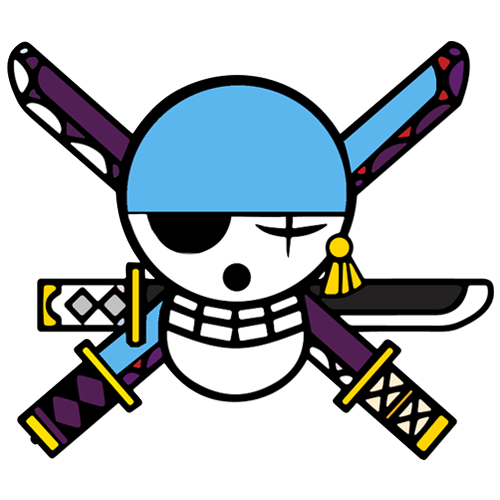
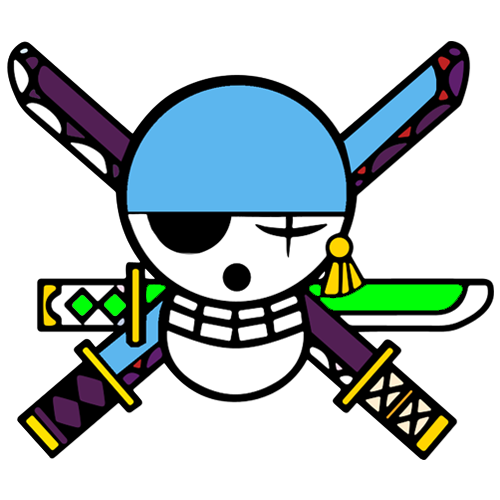
asd

diff --git a/src/App.jsx b/src/App.jsx
@@ -20,10 +20,9 @@ import {
   Slider,
 } from '@mui/material'
 import ExpandMoreIcon from '@mui/icons-material/ExpandMore';
-import { CANVAS_W, CANVAS_H, LOGO_OFFSET_Y, CUSTOM_BG_MAIN, CUSTOM_BG_SECOND, ANIME_OFFSET_Y_NORMAL, ANIME_OFFSET_Y_SMALL, ANIME_SCALE_NORMAL, ANIME_SCALE_SMALL, SHOW_OFFSET_Y_NORMAL, SHOW_OFFSET_Y_SMALL, SHOW_SCALE_NORMAL, SHOW_SCALE_SMALL } from './previewConfig';
+import { CANVAS_W, CANVAS_H, LOGO_OFFSET_Y, CUSTOM_BG_MAIN, CUSTOM_BG_SECOND, ANIME_OFFSET_Y_NORMAL, ANIME_OFFSET_Y_SMALL, ANIME_SCALE_NORMAL, ANIME_SCALE_SMALL, SHOW_OFFSET_Y_NORMAL, SHOW_OFFSET_Y_SMALL, SHOW_SCALE_NORMAL, SHOW_SCALE_SMALL, ONEPIECE_STYLE_CONFIGS } from './previewConfig';
 import { drawDragonBall } from './DragonBallPreview.jsx';
 import { drawOnePiece } from './OnePiecePreview.jsx';
-import { drawOnePieceNew } from './OnePiecePreviewNew.jsx';
 import { drawBand } from './BandPreview.jsx';
 import { drawHunterXHunter } from './HunterXHunterPreview.jsx';
 
@@ -47,7 +46,6 @@ const THEMES = [
     options: [
       { label: 'Naruto', value: 'naruto', fontFamily: 'AnimeFont', color: '#ff9900' },
       { label: 'One Piece', value: 'onepiece', fontFamily: 'AnimeFont', color: '#0099ff' },
-      { label: 'One Piece (New)', value: 'onepiece-new', fontFamily: 'AnimeFont', color: '#0099ff' },
       { label: 'Dragon Ball', value: 'dragonball', fontFamily: 'db', color: '#fbc2eb' },
       { label: 'Hunter x Hunter', value: 'hxh', fontFamily: 'PLZ', color: '#c60000' },
     ],
@@ -99,38 +97,12 @@ const ONEPIECE_VARIANTS = [
 
 const VARIANTS = {
   onepiece: ONEPIECE_VARIANTS,
-  'onepiece-new': ONEPIECE_VARIANTS,
-}
-
-// Style configuration for One Piece character variants
-const ONEPIECE_STYLE_CONFIGS = {
-  char1: { boxFilename: 'box_luffy.png', defaultStyleImage: 'style_1.png', defaultPrimaryColor: '#dc2526', defaultSecondaryColor: '#0077f1', styleScale: 1.1 },
-  char2: { boxFilename: 'box_green.png', defaultStyleImage: 'style_2.png', defaultPrimaryColor: '#f4ed00', defaultSecondaryColor: '#2ab100', styleScale: 1.1  },
-  char3: { boxFilename: 'box_orange.png', defaultStyleImage: 'style_3.svg', defaultPrimaryColor: '#c80000', defaultSecondaryColor: '#e06f00', styleScale: 1.1 },
-  char4: { boxFilename: 'box_pink.png', defaultStyleImage: 'style_4.png', defaultPrimaryColor: '#ffffff', defaultSecondaryColor: '#f003ff', styleScale: 1.2 },
-  char5: { boxFilename: 'box_yellow.png', defaultStyleImage: 'style_5.png', defaultPrimaryColor: '#ffffff', defaultSecondaryColor: '#f9da06' },
-  char6: { boxFilename: 'box_red.png', defaultStyleImage: 'style_6.png', defaultPrimaryColor: '#ffffff', defaultSecondaryColor: '#f30011', styleScale: 1.3 },
-  char7: { boxFilename: 'box_nami.png', defaultStyleImage: 'style_7.png', defaultPrimaryColor: '#f47301', defaultSecondaryColor: '#00c892', styleScale: 1.2 },
-  char8: { boxFilename: 'box.png', defaultStyleImage: 'style_8.png', defaultPrimaryColor: '#f9da06', defaultSecondaryColor: '#0077f1', styleScale: 1.15 },
-  char9: { boxFilename: 'box_purple.png', defaultStyleImage: 'style_9.png', defaultPrimaryColor: '#FF0000', defaultSecondaryColor: '#6803ff', styleScale: 1.1 },
-  char10: { boxFilename: 'box_yellow.png', defaultStyleImage: 'style_10.png', defaultPrimaryColor: '#a2a2a2', defaultSecondaryColor: '#e8da00', styleScale: 1.2 },
-  char11: { boxFilename: 'box_grey.png', defaultStyleImage: 'style_11.png', defaultPrimaryColor: '#e8da00', defaultSecondaryColor: '#a2a2a2', styleScale: 1.2 },
-  char12: { boxFilename: 'box_tropa.png', defaultStyleImage: 'style_12.png', defaultPrimaryColor: '#ffffff', defaultSecondaryColor: '#48620c', styleScale: 1.2 },
-  char13: { boxFilename: 'box_boa.png', defaultStyleImage: 'style_13.png', defaultPrimaryColor: '#ff0000', defaultSecondaryColor: '#000000', styleScale: 1.2  },
-  char14: { boxFilename: 'box_junbe.png', defaultStyleImage: 'style_14_k.png', defaultPrimaryColor: '#ff0000', defaultSecondaryColor: '#50aefe', styleScale: 1.1  },
-  char15: { boxFilename: 'box_purple.png', defaultStyleImage: 'style_15.png', defaultPrimaryColor: '#ffffff', defaultSecondaryColor: '#6803ff', styleScale: 1.2, styleWidthScale: 1.5  },
-  char16: { boxFilename: 'box_purple.png', defaultStyleImage: 'style_16.png', defaultPrimaryColor: '#ffffff', defaultSecondaryColor: '#6803ff', styleScale: 1.1  },
-  char17: { boxFilename: 'box_barbagrande.png', defaultStyleImage: 'style_17.png', defaultPrimaryColor: '#ffffff', defaultSecondaryColor: '#850101', styleScale: 1.2 , styleWidthScale: 1.5 },
-  char18: { boxFilename: 'box_red.png', defaultStyleImage: 'style_18.png', defaultPrimaryColor: '#ffffff', defaultSecondaryColor: '#ff0000', styleScale: 1.1  },
-  char19: { boxFilename: 'box_red.png', defaultStyleImage: 'style_19.png', defaultPrimaryColor: '#ffffff', defaultSecondaryColor: '#ff0000', styleScale: 0.95, keepAspectRatio: true },
-  char20: { boxFilename: 'box_red.png', defaultStyleImage: 'style_20.png', defaultPrimaryColor: '#ffff00', defaultSecondaryColor: '#ff0000', styleScale: 0.9, keepAspectRatio: true },
 }
 
 // Mapping of themespecific styles to product page URLs
 const PRODUCT_PAGE_URLS = {
   naruto: 'https://example.com/naruto-logo',
   onepiece: 'https://www.weletyoucook.com/product-page/anime-custom-desksign',
-  'onepiece-new': 'https://www.weletyoucook.com/product-page/anime-custom-desksign',
   dragonball: 'https://example.com/dragon-ball-logo',
   hxh: 'https://example.com/hunter-x-hunter-logo',
   metallica: 'https://example.com/metallica-logo',
@@ -158,12 +130,34 @@ export default function App() {
   const [previewScale, setPreviewScale] = useState(1.8);
   const scaledCanvasWidth = Math.round(CANVAS_W * previewScale);
   const scaledCanvasHeight = Math.round(CANVAS_H * previewScale);
+  const [styleVariant, setStyleVariant] = useState('');
 
   const currentTheme = THEMES.find((t) => t.value === theme)
   const currentSpecific = currentTheme.options.find((o) => o.value === specific)
   const displayFontFamily = currentSpecific?.fontFamily || 'AnimeFont'
   const displayColor = currentSpecific?.color || '#ffffff'
+  const isOnePieceSpecific = specific === 'onepiece'
+  const styleVariantOptions = isOnePieceSpecific && variant
+    ? (ONEPIECE_STYLE_CONFIGS[variant]?.styleVariants || [])
+    : []
+  const hasStyleVariant = styleVariantOptions.length > 0
   const hasVariant = Boolean(VARIANTS[specific])
+  const columnSpan = (hasVariant || hasStyleVariant) ? 4 : 6
+
+  useEffect(() => {
+    if (!isOnePieceSpecific) {
+      setStyleVariant('')
+      return
+    }
+    const variantConfig = variant ? ONEPIECE_STYLE_CONFIGS[variant] : undefined
+    const options = variantConfig?.styleVariants || []
+    if (options.length === 0) {
+      setStyleVariant('')
+      return
+    }
+    const defaultOption = options.find(opt => opt.value === variantConfig?.defaultStyleVariant) || options[0]
+    setStyleVariant((prev) => (prev && options.some(opt => opt.value === prev) ? prev : defaultOption.value))
+  }, [isOnePieceSpecific, variant])
 
   useEffect(() => {
     const canvas = canvasRef.current;
@@ -224,11 +218,7 @@ export default function App() {
           return;
         }
         if (theme === 'anime' && specific === 'onepiece') {
-          await drawOnePiece(ctx, text, variant, useCustomBackground);
-          return;
-        }
-        if (theme === 'anime' && specific === 'onepiece-new') {
-          await drawOnePieceNew(ctx, text, variant, useCustomBackground);
+          await drawOnePiece(ctx, text, variant, useCustomBackground, styleVariant);
           return;
         }
         if (theme === 'anime' && specific === 'hxh') {
@@ -291,7 +281,7 @@ export default function App() {
         ctx.translate(offsetX, offsetY);
         ctx.scale(scale, scale);
 
-        if (!(theme === 'anime' && (specific === 'onepiece' || specific === 'onepiece-new'))) {
+        if (!(theme === 'anime' && specific === 'onepiece')) {
           ctx.save();
           ctx.font = `bold 70px ${displayFontFamily}, sans-serif`;
           ctx.textAlign = 'center';
@@ -339,7 +329,7 @@ export default function App() {
       window.removeEventListener('resize', handleResize);
       ctx.setTransform = defaultSetTransform;
     };
-  }, [text, theme, specific, displayFontFamily, displayColor, variant, useCustomBackground, previewScale]);
+  }, [text, theme, specific, displayFontFamily, displayColor, variant, useCustomBackground, previewScale, styleVariant]);
   // Removed dispString as 3D preview is disabled
   return (
     <Container
@@ -394,7 +384,7 @@ export default function App() {
           </Typography>
 
           <Grid container spacing={2} alignItems="flex-end">
-            <Grid item xs={12} md={hasVariant ? 4 : 6}>
+            <Grid item xs={12} md={columnSpan}>
               <FormControl fullWidth variant="outlined">
                 <InputLabel id="theme-label">Theme</InputLabel>
                 <Select
@@ -421,7 +411,7 @@ export default function App() {
               </FormControl>
             </Grid>
 
-            <Grid item xs={12} md={hasVariant ? 4 : 6}>
+            <Grid item xs={12} md={columnSpan}>
               <FormControl fullWidth variant="outlined">
                 <InputLabel id="specific-label">{currentTheme?.label}</InputLabel>
                 <Select
@@ -457,6 +447,27 @@ export default function App() {
                     onChange={(e) => setVariant(e.target.value)}
                   >
                     {VARIANTS[specific].map((opt) => (
+                      <MenuItem key={opt.value} value={opt.value}>
+                        {opt.label}
+                      </MenuItem>
+                    ))}
+                  </Select>
+                </FormControl>
+              </Grid>
+            )}
+
+            {hasStyleVariant && (
+              <Grid item xs={12} md={4}>
+                <FormControl fullWidth variant="outlined">
+                  <InputLabel id="style-variant-label">Style</InputLabel>
+                  <Select
+                    labelId="style-variant-label"
+                    id="style-variant-select"
+                    value={styleVariant}
+                    label="Style"
+                    onChange={(e) => setStyleVariant(e.target.value)}
+                  >
+                    {styleVariantOptions.map((opt) => (
                       <MenuItem key={opt.value} value={opt.value}>
                         {opt.label}
                       </MenuItem>

diff --git a/src/OnePiecePreview.jsx b/src/OnePiecePreview.jsx
@@ -1,6 +1,6 @@
 import { CANVAS_W, CANVAS_H, LOGO_OFFSET_Y, CUSTOM_BG_MAIN, CUSTOM_BG_SECOND, ONEPIECE_STYLE_CONFIGS, ONEPIECE_SCALE_NORMAL, ONEPIECE_SCALE_SMALL, ONEPIECE_OFFSET_Y_NORMAL, ONEPIECE_OFFSET_Y_SMALL } from './previewConfig';
 
-export async function drawOnePiece(ctx, text, variant, useCustomBackground) {
+export async function drawOnePiece(ctx, text, variant, useCustomBackground, styleVariantKey) {
   const currentTransform = typeof ctx.getTransform === 'function' ? ctx.getTransform() : { a: 1, d: 1 };
   const scaleX = ctx.__deviceScaleX || currentTransform.a || 1;
   const scaleY = ctx.__deviceScaleY || currentTransform.d || 1;
@@ -23,10 +23,12 @@ export async function drawOnePiece(ctx, text, variant, useCustomBackground) {
   const renderWidth = Math.max(1, Math.round(CANVAS_W * renderScaleX));
   const renderHeight = Math.max(1, Math.round(CANVAS_H * renderScaleY));
   const smoothingSupported = 'imageSmoothingQuality' in ctx;
+  const forceBlackBackground = variant === 'char13';
+  const shouldUseCustomBackground = useCustomBackground && !forceBlackBackground;
 
   ctx.clearRect(0, 0, CANVAS_W, CANVAS_H);
 
-  if (useCustomBackground) {
+  if (shouldUseCustomBackground) {
     const bg = new Image();
     const txtLen = text.replace(/\s/g, '').length;
     bg.src = txtLen > 6 ? CUSTOM_BG_SECOND : CUSTOM_BG_MAIN;
@@ -37,13 +39,26 @@ export async function drawOnePiece(ctx, text, variant, useCustomBackground) {
     if (smoothingSupported) ctx.imageSmoothingQuality = 'high';
     ctx.drawImage(bg, 0, 0, deviceWidth, deviceHeight);
     ctx.restore();
+  } else if (forceBlackBackground) {
+    ctx.save();
+    setIdentityTransform();
+    ctx.fillStyle = '#000000';
+    ctx.fillRect(0, 0, deviceWidth, deviceHeight);
+    ctx.restore();
   }
 
   const txt = text.toUpperCase().substring(0, 12);
   await document.fonts.load('bold 50px ONEPIECE_IL_FINAL');
   const cfg = ONEPIECE_STYLE_CONFIGS[variant] || ONEPIECE_STYLE_CONFIGS.char1;
-  const primaryColor = cfg.defaultSecondaryColor;
-  const secondaryColor = cfg.defaultPrimaryColor;
+  const styleVariantOptions = cfg.styleVariants || [];
+  const fallbackVariant = styleVariantOptions.find((opt) => opt.value === cfg.defaultStyleVariant) || styleVariantOptions[0];
+  const activeStyleVariant = styleVariantOptions.find((opt) => opt.value === styleVariantKey) || fallbackVariant || null;
+  const activeStyleImage = activeStyleVariant?.styleImage || cfg.defaultStyleImage;
+  const primaryColor = activeStyleVariant?.secondaryColor || cfg.defaultSecondaryColor;
+  const secondaryColor = activeStyleVariant?.primaryColor || cfg.defaultPrimaryColor;
+  const effectiveStyleScale = activeStyleVariant?.styleScale ?? cfg.styleScale ?? 1;
+  const effectiveStyleWidthScale = activeStyleVariant?.styleWidthScale ?? cfg.styleWidthScale;
+  const effectiveKeepAspectRatio = activeStyleVariant?.keepAspectRatio ?? cfg.keepAspectRatio;
   const maxFontSize = Math.min(400, CANVAS_H * 0.5);
   const baseFontSize = txt.length > 11 ? maxFontSize * 0.7 : maxFontSize;
   const fontSize = baseFontSize;
@@ -57,11 +72,11 @@ export async function drawOnePiece(ctx, text, variant, useCustomBackground) {
   if ('imageSmoothingQuality' in offCtx) offCtx.imageSmoothingQuality = 'high';
   offCtx.scale(renderScaleX, renderScaleY);
 
-  if (!useCustomBackground) {
-    offCtx.fillStyle = '#fff';
-    offCtx.fillRect(0, 0, CANVAS_W, CANVAS_H);
-  } else {
+  if (shouldUseCustomBackground) {
     offCtx.clearRect(0, 0, CANVAS_W, CANVAS_H);
+  } else {
+    offCtx.fillStyle = forceBlackBackground ? '#000000' : '#fff';
+    offCtx.fillRect(0, 0, CANVAS_W, CANVAS_H);
   }
 
   const boxImg = new Image();
@@ -70,19 +85,18 @@ export async function drawOnePiece(ctx, text, variant, useCustomBackground) {
   const bxH = (425 / 800) * CANVAS_H;
   const bxY = CANVAS_H - bxH - (160 / 800) * CANVAS_H;
   const mainH = CANVAS_H * 0.5;
-  const styleScale = cfg.styleScale ?? 1;
-  let imgHeight = mainH * styleScale;
+  let imgHeight = mainH * effectiveStyleScale;
   let imgWidth;
   const styleImg = new Image();
-  styleImg.src = new URL(`./assets/${cfg.defaultStyleImage}`, import.meta.url).href;
+  styleImg.src = new URL(`./assets/${activeStyleImage}`, import.meta.url).href;
   await new Promise(r => (styleImg.onload = r));
-  if (cfg.keepAspectRatio) {
+  if (effectiveKeepAspectRatio) {
     const naturalWidth = styleImg.naturalWidth || styleImg.width || 1;
     const naturalHeight = styleImg.naturalHeight || styleImg.height || 1;
     const aspectRatio = naturalHeight > 0 ? naturalWidth / naturalHeight : 1;
     imgWidth = imgHeight * aspectRatio;
   } else {
-    const widthScale = cfg.styleWidthScale ?? styleScale;
+    const widthScale = effectiveStyleWidthScale ?? effectiveStyleScale;
     imgWidth = mainH * widthScale;
   }
 

diff --git a/src/OnePiecePreviewNew.jsx b/src/OnePiecePreviewNew.jsx
@@ -16,7 +16,7 @@ const FONT_BOOST = 1.08;
 const STYLE_HEIGHT_RATIO = 0.58;
 const SHADOW_INTENSITY = 1.15;
 
-export async function drawOnePieceNew(ctx, text, variant, useCustomBackground) {
+export async function drawOnePieceNew(ctx, text, variant, useCustomBackground, styleVariantKey) {
   const baseWidth = CANVAS_W;
   const baseHeight = CANVAS_H;
 
@@ -44,8 +44,15 @@ export async function drawOnePieceNew(ctx, text, variant, useCustomBackground) {
   const txt = text.toUpperCase().substring(0, 12);
   await document.fonts.load(`bold ${Math.round(50 * FONT_BOOST)}px ONEPIECE_IL_FINAL`);
   const cfg = ONEPIECE_STYLE_CONFIGS[variant] || ONEPIECE_STYLE_CONFIGS.char1;
-  const primaryColor = cfg.defaultSecondaryColor;
-  const secondaryColor = cfg.defaultPrimaryColor;
+  const styleVariantOptions = cfg.styleVariants || [];
+  const fallbackVariant = styleVariantOptions.find((opt) => opt.value === cfg.defaultStyleVariant) || styleVariantOptions[0];
+  const activeStyleVariant = styleVariantOptions.find((opt) => opt.value === styleVariantKey) || fallbackVariant || null;
+  const activeStyleImage = activeStyleVariant?.styleImage || cfg.defaultStyleImage;
+  const primaryColor = activeStyleVariant?.secondaryColor || cfg.defaultSecondaryColor;
+  const secondaryColor = activeStyleVariant?.primaryColor || cfg.defaultPrimaryColor;
+  const effectiveStyleScale = activeStyleVariant?.styleScale ?? cfg.styleScale ?? 1;
+  const effectiveStyleWidthScale = activeStyleVariant?.styleWidthScale ?? cfg.styleWidthScale ?? cfg.styleScale;
+  const effectiveKeepAspectRatio = activeStyleVariant?.keepAspectRatio ?? cfg.keepAspectRatio;
   const maxFontSize = Math.min(450, baseHeight * 0.6) * FONT_BOOST;
   const baseFontSize = txt.length > 11 ? maxFontSize * 0.72 : maxFontSize;
   const fontSize = baseFontSize;
@@ -68,22 +75,22 @@ export async function drawOnePieceNew(ctx, text, variant, useCustomBackground) {
   await new Promise(r => (boxImg.onload = r));
 
   const styleImg = new Image();
-  styleImg.src = new URL(`./assets/${cfg.defaultStyleImage}`, import.meta.url).href;
+  styleImg.src = new URL(`./assets/${activeStyleImage}`, import.meta.url).href;
   await new Promise(r => (styleImg.onload = r));
 
   const bxH = (450 / 800) * baseHeight;
   const bxY = baseHeight - bxH - (130 / 800) * baseHeight;
-  const mainH = baseHeight * STYLE_HEIGHT_RATIO * (cfg.styleScale ?? 1);
+  const mainH = baseHeight * STYLE_HEIGHT_RATIO * effectiveStyleScale;
 
   let imgHeight = mainH;
   let imgWidth;
-  if (cfg.keepAspectRatio) {
+  if (effectiveKeepAspectRatio) {
     const naturalWidth = styleImg.naturalWidth || styleImg.width || 1;
     const naturalHeight = styleImg.naturalHeight || styleImg.height || 1;
     const aspectRatio = naturalHeight > 0 ? naturalWidth / naturalHeight : 1;
     imgWidth = imgHeight * aspectRatio;
   } else {
-    const widthScale = (cfg.styleWidthScale ?? cfg.styleScale ?? 1) * 1.05;
+    const widthScale = (effectiveStyleWidthScale ?? 1) * 1.05;
     imgWidth = baseHeight * widthScale * 0.55;
   }
 

diff --git a/src/previewConfig.js b/src/previewConfig.js
@@ -25,7 +25,18 @@ export const KERNING = { CO: -10, AS: -8, ZA: -18 }
 export const WIDTH_ADJ = { D: 1.6, Z: 0.8 }
 export const ONEPIECE_STYLE_CONFIGS = {
   char1: { boxFilename: 'box_luffy.png', defaultStyleImage: 'style_1.png', defaultPrimaryColor: '#dc2526', defaultSecondaryColor: '#0077f1', styleScale: 1.1 },
-  char2: { boxFilename: 'box_green.png', defaultStyleImage: 'style_zoro.png', defaultPrimaryColor: '#f4ed00', defaultSecondaryColor: '#2ab100', styleScale: 1.1 },
+  char2: {
+    boxFilename: 'box_green.png',
+    defaultStyleImage: 'style_zoro.png',
+    defaultPrimaryColor: '#f4ed00',
+    defaultSecondaryColor: '#2ab100',
+    styleScale: 1.1,
+    styleVariants: [
+      { value: 'desk-sign', label: 'Desk Sign', styleImage: 'style_zoro.png' },
+      { value: 'keychain', label: 'Keychain', styleImage: 'style_zoro_k.png' },
+    ],
+    defaultStyleVariant: 'desk-sign',
+  },
   char3: { boxFilename: 'box_orange.png', defaultStyleImage: 'style_3.png', defaultPrimaryColor: '#c80000', defaultSecondaryColor: '#e06f00', styleScale: 1.1 },
   char4: { boxFilename: 'box_pink.png', defaultStyleImage: 'style_4.png', defaultPrimaryColor: '#ffffff', defaultSecondaryColor: '#f003ff', styleScale: 1.2 },
   char5: { boxFilename: 'box_yellow.png', defaultStyleImage: 'style_5.png', defaultPrimaryColor: '#ffffff', defaultSecondaryColor: '#f9da06' },
